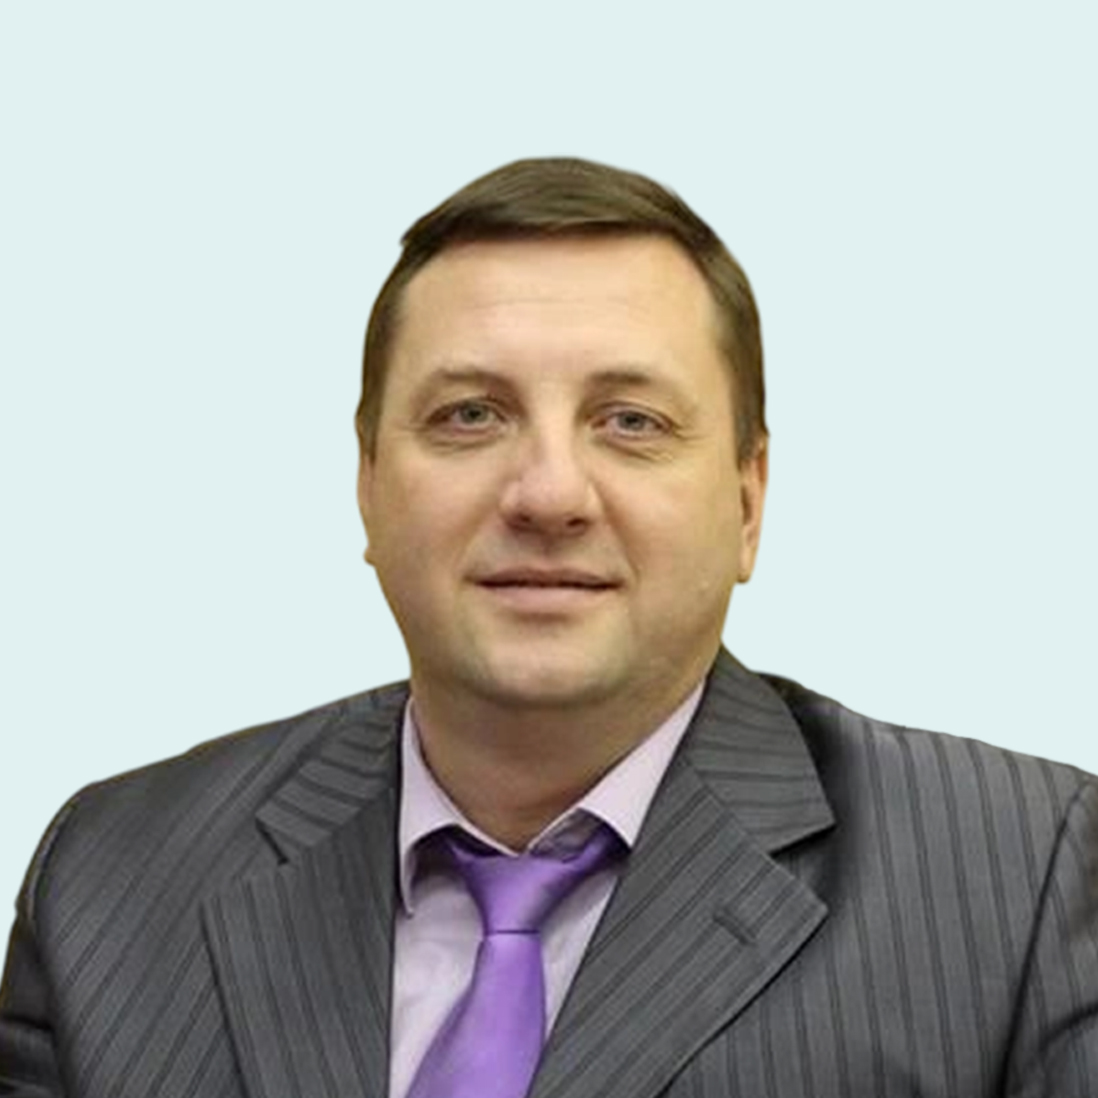
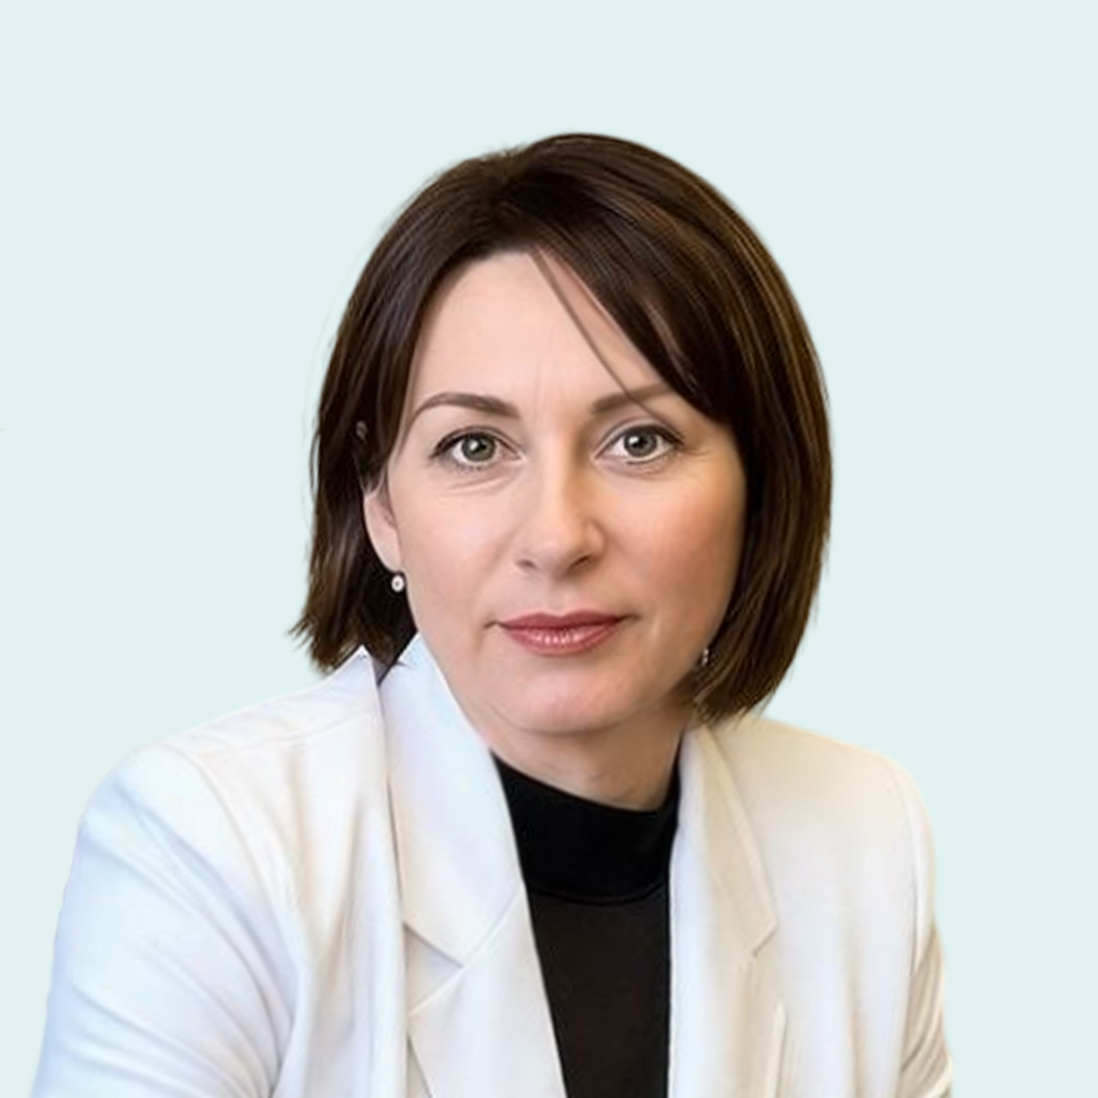
update images

diff --git a/views/site/blocks/about/structura.php b/views/site/blocks/about/structura.php
@@ -10,13 +10,13 @@
     ');
     $data = [
         [
-            'image' => '/data/about/45436е56.png',
+            'image' => '/data/about/1.jpg',
             'title' => 'Информация об Ассоциации',
             'subtitle' => 'Общая информация',
             'href' => '/about/association'
         ],
         [
-            'image' => '/data/about/4556456е56.jpg',
+            'image' => '/data/about/2.jpg',
             'title' => 'Миссия АНВУЗ',
             'subtitle' => 'Сведение об Ассоциации',
             'href' => '/about/mission'

diff --git a/components/widget/views/map.php b/components/widget/views/map.php
@@ -749,7 +749,7 @@
         </h3>
         <div v-if="map.length" class="overflow-y-auto w-100" style="max-height: 475px">
             <ul class="list-group">
-                <li class="list-group-item bg-body-tertiary border-0 ps-0" v-for="item in map">
+                <li class="list-group-item bg-transparent border-0 ps-0" v-for="item in map">
                     <div class="card">
                         <div class="card-body">
                             <?php /*<a :href="'/university/' + item.href" class="fw-bold link-body-emphasis">{{item.title}}</a>*/ ?>
